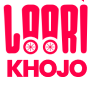
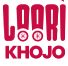
overnight + color changes

diff --git a/frontend/src/App.tsx b/frontend/src/App.tsx
@@ -59,13 +59,26 @@ function MapDisplay() {
 
   const navigate = useNavigate();
 
-  // Helper function to convert 24-hour time (HH:mm) to minutes from midnight
-  const convert24HourToMinutes = (timeStr: string): number => {
-    const time = timeStr.match(/^(\d{1,2}):(\d{2})$/);
-    if (!time) return 0;
-    const hours = parseInt(time[1], 10);
-    const minutes = parseInt(time[2], 10);
-    return hours * 60 + minutes;
+  // Helper function to convert time string to minutes from midnight (supports 24-hour and 12-hour AM/PM)
+  const convertToMinutes = (timeStr: string): number => {
+    // Try 24-hour format first
+    let match = timeStr.match(/^\s*(\d{1,2}):(\d{2})\s*$/);
+    if (match) {
+      const hours = parseInt(match[1], 10);
+      const minutes = parseInt(match[2], 10);
+      return hours * 60 + minutes;
+    }
+    // Try 12-hour format with AM/PM
+    match = timeStr.match(/^\s*(\d{1,2}):(\d{2})\s*(AM|PM)$/i);
+    if (match) {
+      let hours = parseInt(match[1], 10);
+      const minutes = parseInt(match[2], 10);
+      const period = match[3].toUpperCase();
+      if (period === 'PM' && hours !== 12) hours += 12;
+      if (period === 'AM' && hours === 12) hours = 0;
+      return hours * 60 + minutes;
+    }
+    return 0; // fallback
   };
 
   const getOperatingStatus = (operatingHours?: OperatingHours) => {
@@ -78,18 +91,17 @@ function MapDisplay() {
     const yesterdayDay = (currentDay - 1 + 7) % 7; // The day before today
     const currentMinutes = now.getHours() * 60 + now.getMinutes();
 
-    const openTimeInMinutes = convert24HourToMinutes(operatingHours.openTime);
-    const closeTimeInMinutes = convert24HourToMinutes(operatingHours.closeTime);
+    const openTimeInMinutes = convertToMinutes(operatingHours.openTime);
+    const closeTimeInMinutes = convertToMinutes(operatingHours.closeTime);
 
     let isOpen = false;
     // Case 1: Overnight schedule (e.g., 22:00 - 02:00)
     if (closeTimeInMinutes < openTimeInMinutes) {
-      const isPostMidnight = currentMinutes >= openTimeInMinutes;
-      const isPreMidnight = currentMinutes <= closeTimeInMinutes;
-
-      if (isPostMidnight && operatingHours.days.includes(currentDay)) {
-        isOpen = true;
-      } else if (isPreMidnight && operatingHours.days.includes(yesterdayDay)) {
+      // Overnight: openTime (e.g., 19:00) to 23:59 today, and 00:00 to closeTime tomorrow
+      if (
+        (currentMinutes >= openTimeInMinutes && operatingHours.days.includes(currentDay)) ||
+        (currentMinutes <= closeTimeInMinutes && operatingHours.days.includes(yesterdayDay))
+      ) {
         isOpen = true;
       }
     }
@@ -106,8 +118,19 @@ function MapDisplay() {
 
     // If open, check if it's closing soon
     const closesSoonThreshold = 30; // minutes
-    let timeUntilClose = (closeTimeInMinutes - currentMinutes + 1440) % 1440;
-    
+    let timeUntilClose;
+    if (closeTimeInMinutes < openTimeInMinutes) {
+      // Overnight: calculate time until close correctly
+      if (currentMinutes >= openTimeInMinutes) {
+        // Before midnight
+        timeUntilClose = (closeTimeInMinutes + 1440) - currentMinutes;
+      } else {
+        // After midnight
+        timeUntilClose = closeTimeInMinutes - currentMinutes;
+      }
+    } else {
+      timeUntilClose = closeTimeInMinutes - currentMinutes;
+    }
     if (timeUntilClose > 0 && timeUntilClose <= closesSoonThreshold) {
       return { status: 'Closes Soon', color: '#f0ad4e' };
     }

diff --git a/frontend/src/components/MapPreview.tsx b/frontend/src/components/MapPreview.tsx
@@ -42,13 +42,26 @@ const MapPreview: React.FC<MapPreviewProps> = ({ vendors = [] }) => {
   const [selectedVendor, setSelectedVendor] = useState<Vendor | null>(null);
   const [isVendorCardVisible, setIsVendorCardVisible] = useState<boolean>(false);
 
-  // Helper function to convert 24-hour time (HH:mm) to minutes from midnight
-  const convert24HourToMinutes = (timeStr: string): number => {
-    const time = timeStr.match(/^(\d{1,2}):(\d{2})$/);
-    if (!time) return 0;
-    const hours = parseInt(time[1], 10);
-    const minutes = parseInt(time[2], 10);
-    return hours * 60 + minutes;
+  // Helper function to convert time string to minutes from midnight (supports 24-hour and 12-hour AM/PM)
+  const convertToMinutes = (timeStr: string): number => {
+    // Try 24-hour format first
+    let match = timeStr.match(/^\s*(\d{1,2}):(\d{2})\s*$/);
+    if (match) {
+      const hours = parseInt(match[1], 10);
+      const minutes = parseInt(match[2], 10);
+      return hours * 60 + minutes;
+    }
+    // Try 12-hour format with AM/PM
+    match = timeStr.match(/^\s*(\d{1,2}):(\d{2})\s*(AM|PM)$/i);
+    if (match) {
+      let hours = parseInt(match[1], 10);
+      const minutes = parseInt(match[2], 10);
+      const period = match[3].toUpperCase();
+      if (period === 'PM' && hours !== 12) hours += 12;
+      if (period === 'AM' && hours === 12) hours = 0;
+      return hours * 60 + minutes;
+    }
+    return 0; // fallback
   };
 
   const getOperatingStatus = (operatingHours?: Vendor['operatingHours']) => {
@@ -59,13 +72,16 @@ const MapPreview: React.FC<MapPreviewProps> = ({ vendors = [] }) => {
     const currentDay = now.getDay();
     const yesterdayDay = (currentDay - 1 + 7) % 7;
     const currentMinutes = now.getHours() * 60 + now.getMinutes();
-    const openTimeInMinutes = convert24HourToMinutes(operatingHours.openTime);
-    const closeTimeInMinutes = convert24HourToMinutes(operatingHours.closeTime);
+    const openTimeInMinutes = convertToMinutes(operatingHours.openTime);
+    const closeTimeInMinutes = convertToMinutes(operatingHours.closeTime);
 
     let isOpen = false;
     if (closeTimeInMinutes < openTimeInMinutes) {
-      if ((currentMinutes >= openTimeInMinutes && operatingHours.days.includes(currentDay)) ||
-          (currentMinutes <= closeTimeInMinutes && operatingHours.days.includes(yesterdayDay))) {
+      // Overnight: openTime (e.g., 16:00) to 23:59 today, and 00:00 to closeTime tomorrow
+      if (
+        (currentMinutes >= openTimeInMinutes && operatingHours.days.includes(currentDay)) ||
+        (currentMinutes <= closeTimeInMinutes && operatingHours.days.includes(yesterdayDay))
+      ) {
         isOpen = true;
       }
     } else {
@@ -76,7 +92,16 @@ const MapPreview: React.FC<MapPreviewProps> = ({ vendors = [] }) => {
 
     if (!isOpen) return { status: 'Closed', color: '#d9534f' };
     
-    const timeUntilClose = (closeTimeInMinutes - currentMinutes + 1440) % 1440;
+    let timeUntilClose;
+    if (closeTimeInMinutes < openTimeInMinutes) {
+      if (currentMinutes >= openTimeInMinutes) {
+        timeUntilClose = (closeTimeInMinutes + 1440) - currentMinutes;
+      } else {
+        timeUntilClose = closeTimeInMinutes - currentMinutes;
+      }
+    } else {
+      timeUntilClose = closeTimeInMinutes - currentMinutes;
+    }
     if (timeUntilClose > 0 && timeUntilClose <= 30) {
       return { status: 'Closes Soon', color: '#f0ad4e' };
     }

diff --git a/frontend/src/components/HomeScreen.tsx b/frontend/src/components/HomeScreen.tsx
@@ -275,7 +275,7 @@ const HomeScreen: React.FC = () => {
         <button
           className="get-started-btn"
           onClick={handleGetStartedClick}
-          style={{ backgroundColor: "#d50540", margin:'15px' }}
+          style={{ backgroundColor: "#C80B41", margin:'15px' }}
         >
           Nearby Vendors
           {/* Arrow icon - using a simple SVG for now */}
@@ -285,11 +285,11 @@ const HomeScreen: React.FC = () => {
         </button>
         <div style={{ padding: "0 5px 5px 5px", fontSize: "20px", textAlign: "center" }}>
           {userLocation && (
-            <p style={{ fontSize: "16px", color: "#ff0028", fontWeight: "bold", alignItems: "center", marginTop:'20px' }}>
+            <p style={{ fontSize: "16px", color: "#C80B41", fontWeight: "bold", alignItems: "center", marginTop:'20px' }}>
               <span style={{ marginRight: "5px" }}>📍</span>{nearbyCount} vendors within 2km radius
             </p>
           )}
-          <p style={{ fontSize: "16px", color: "#ff0028", fontWeight: "bold", alignItems: "center", marginTop:'20px' }}><span style={{ marginRight: "5px" }}>Total</span>{vendors.length} vendors live on Laari Khojo!</p>
+          <p style={{ fontSize: "16px", color: "#C80B41", fontWeight: "bold", alignItems: "center", marginTop:'20px' }}><span style={{ marginRight: "5px" }}>Total</span>{vendors.length} vendors live on Laari Khojo!</p>
         </div>
       </div>
 

diff --git a/frontend/src/components/HomeScreen.css b/frontend/src/components/HomeScreen.css
@@ -78,7 +78,7 @@
 }
 
 .get-started-btn:hover {
-  background-color: #ff0028; /* Darker hover effect */
+  background-color: #C80B41; /* Darker hover effect */
 }
 
 .get-started-btn svg {
